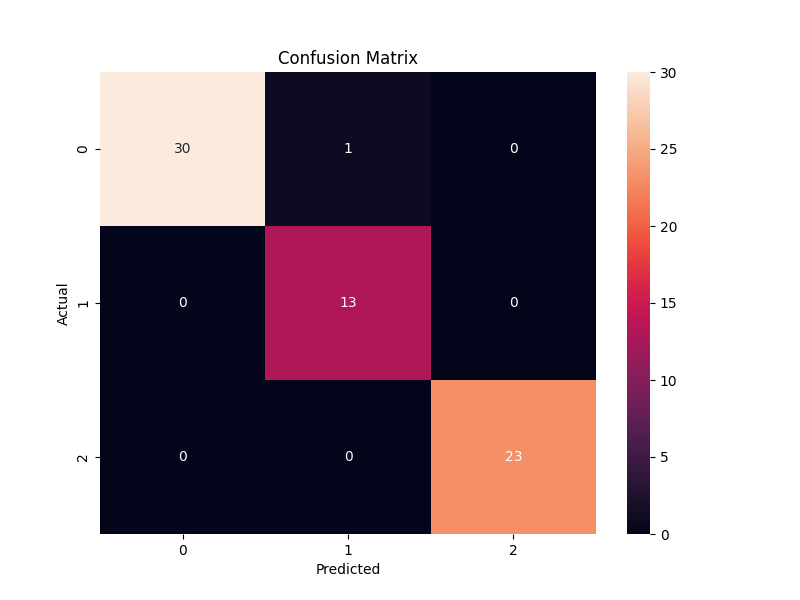
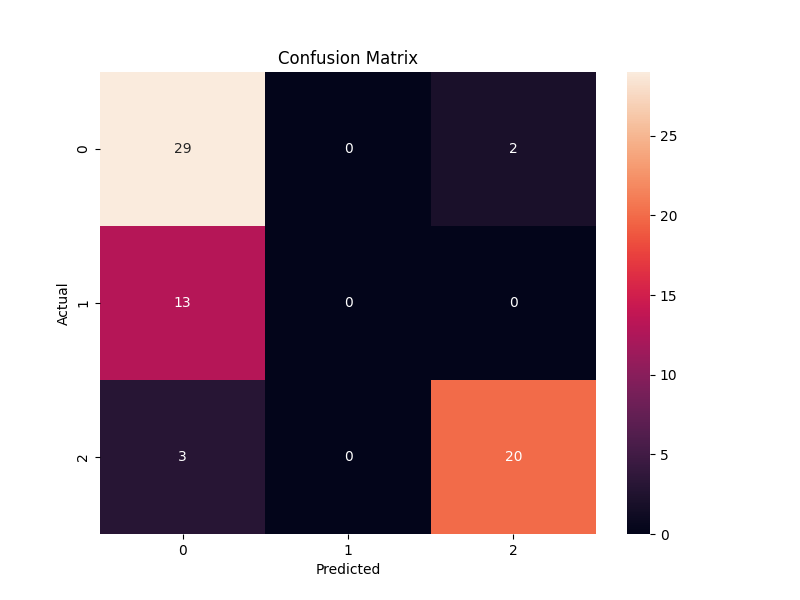
using SVC model on data

diff --git a/train1.py b/train1.py
@@ -1,5 +1,5 @@
 import pandas as pd
-from sklearn.linear_model import LogisticRegression
+from sklearn.svm import SVC
 import os
 import pickle
 
@@ -12,7 +12,7 @@ X = train_df.drop(columns=['species'])
 y = train_df['species']
 
 # Train model
-model = LogisticRegression(random_state=42, max_iter=1000)
+model = SVC(random_state=42)
 model.fit(X, y)
 print("Model trained successfully")
 
